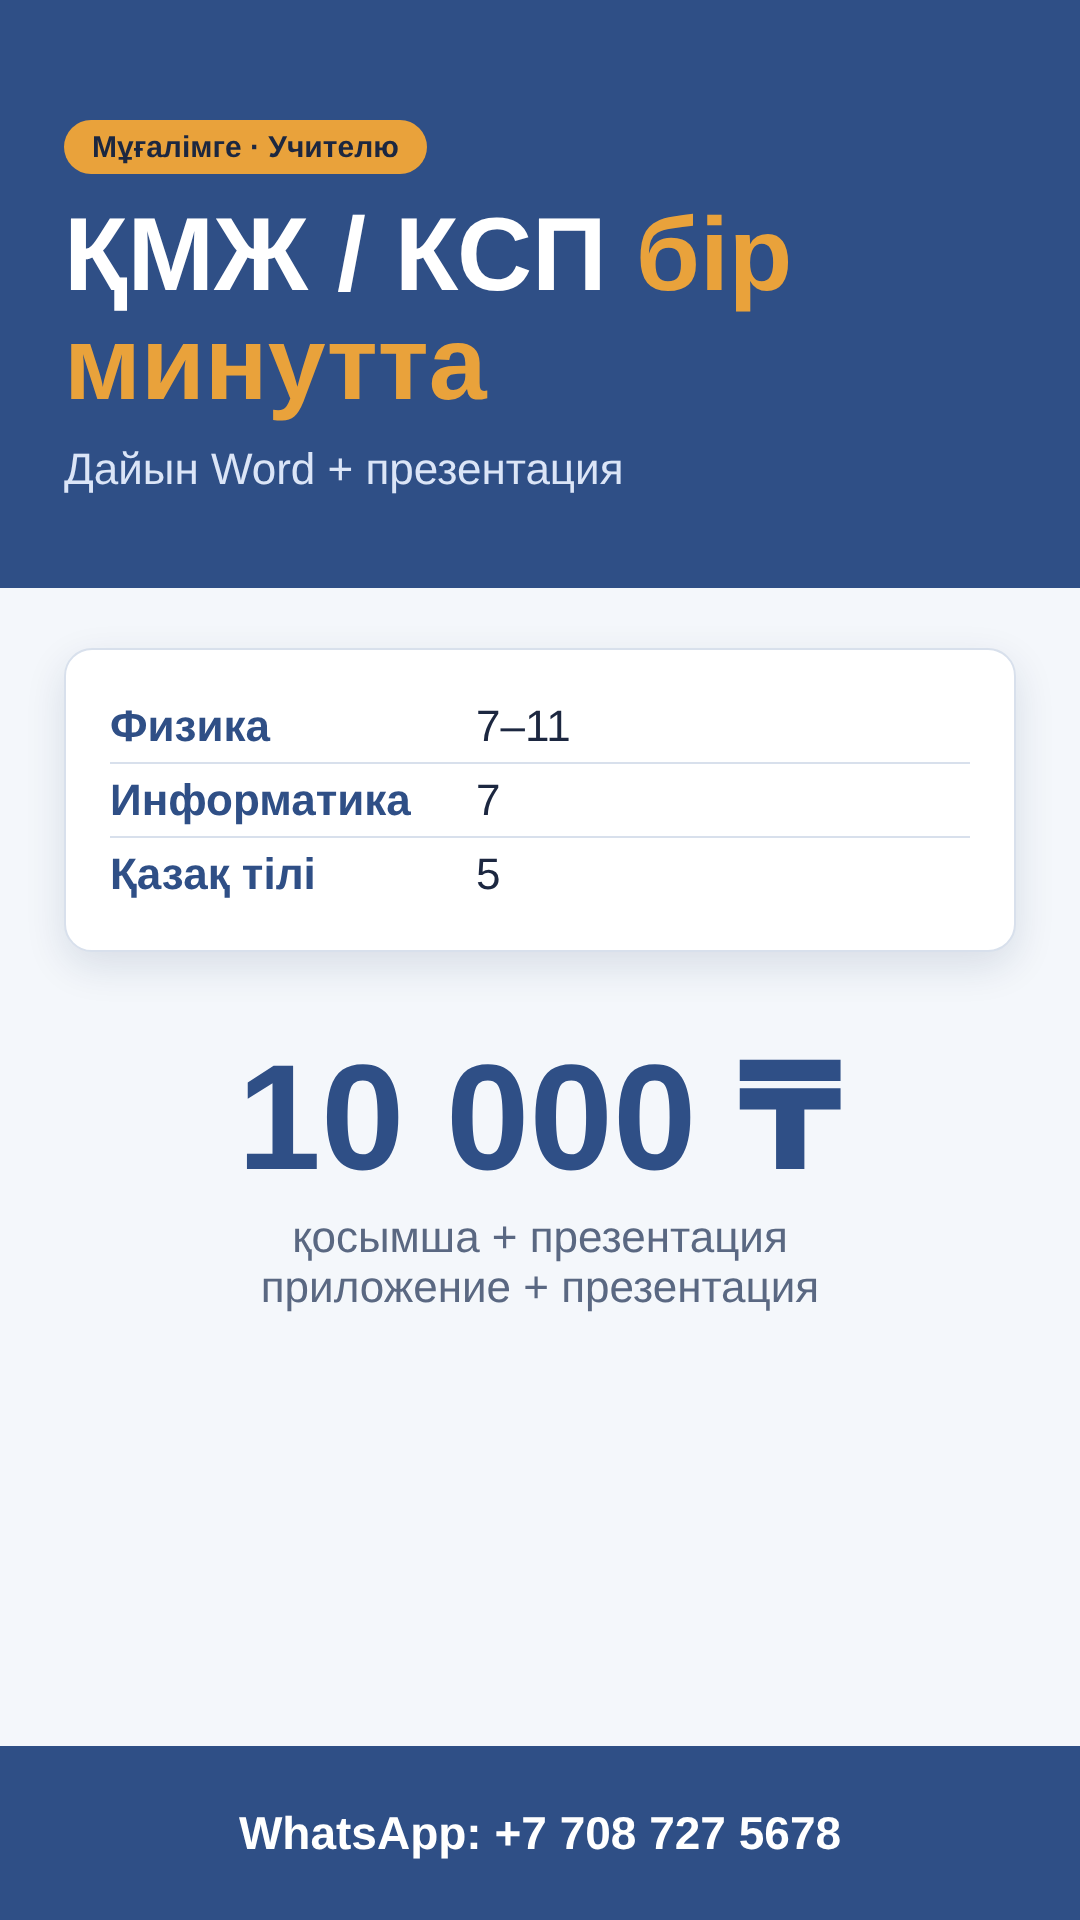
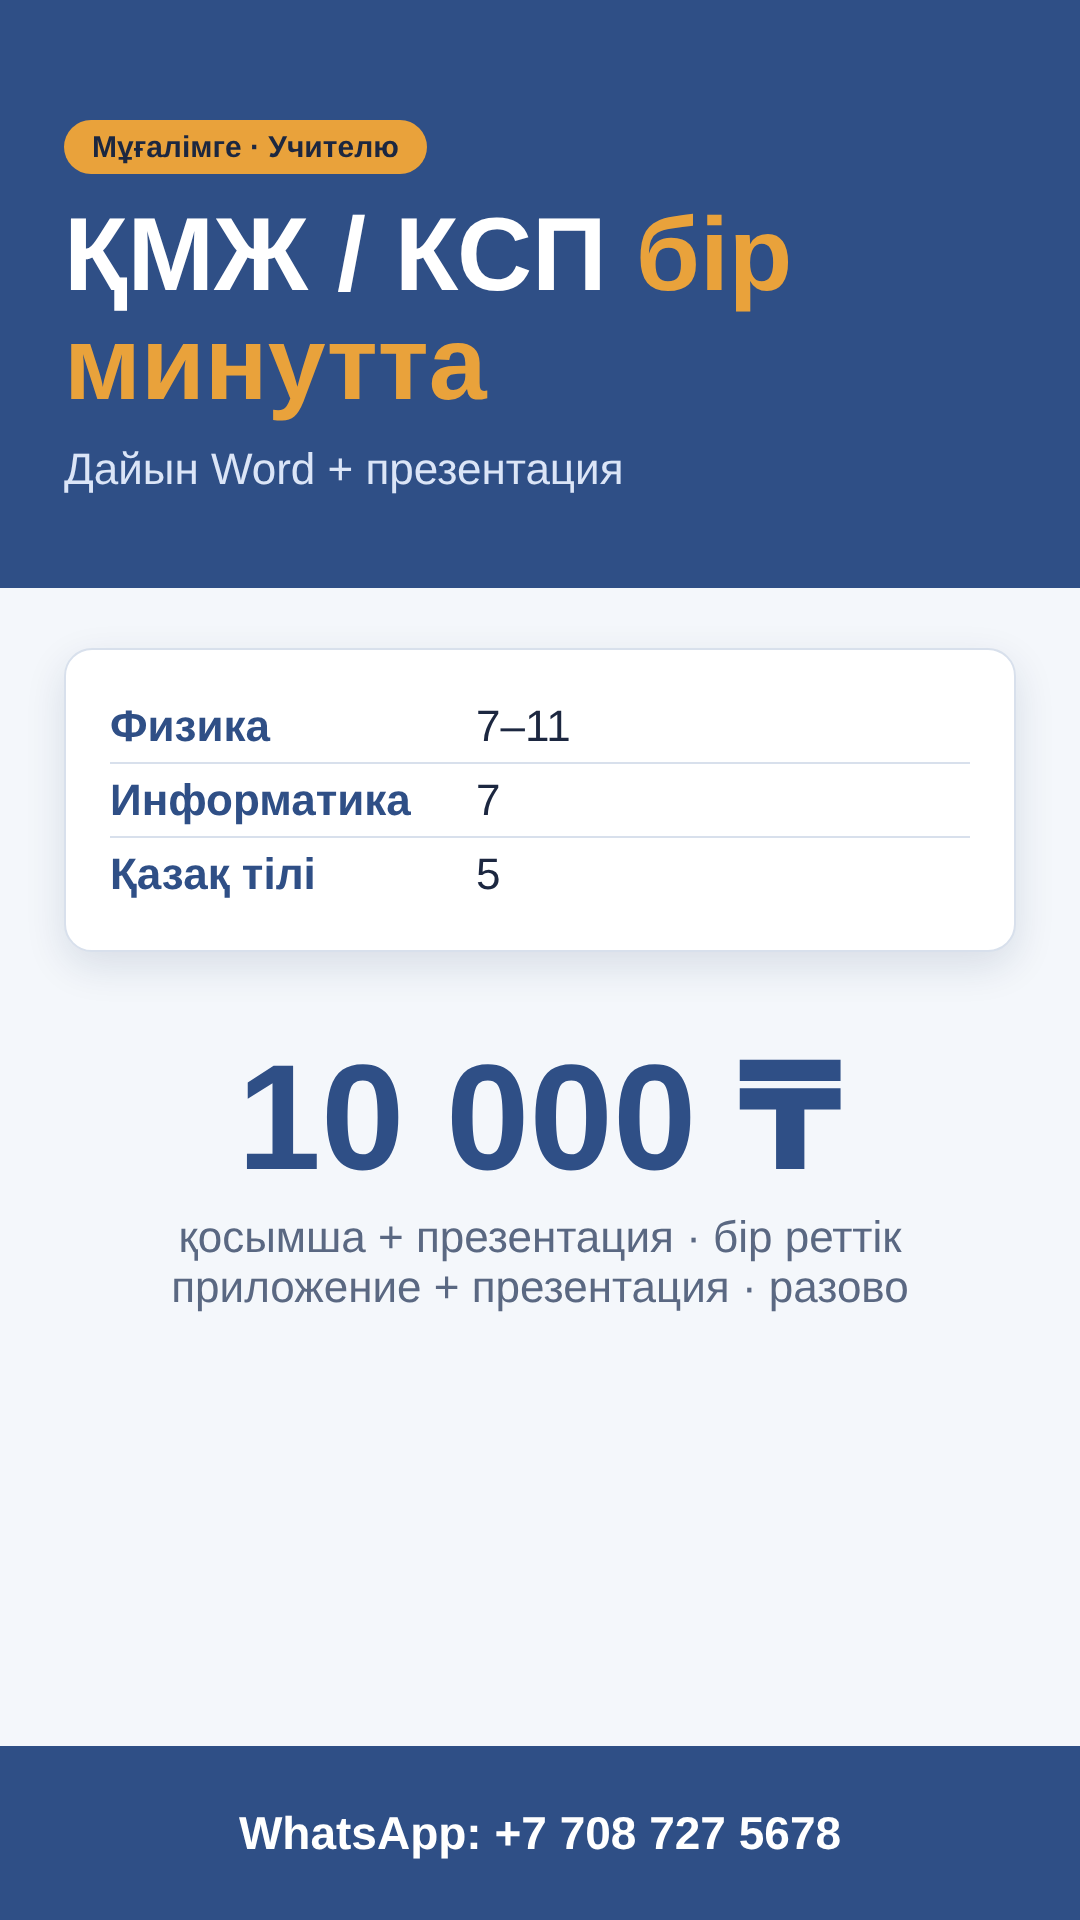
promo: бағалар мен шарттар (10 000 ₸ бір реттік, презентация 3 000 ₸, жинақ 5 000 ₸)
Claude-Session: https://claude.ai/code/session_01UKogQRtugYhHoysWCHeRKS

Changed region(s): [[0.1528, 0.625, 0.825, 0.6875]]

diff --git a/promo/index.html b/promo/index.html
@@ -143,11 +143,11 @@ footer{padding:20px 0 90px;color:var(--muted);font-size:14px;border-top:1px soli
     <section aria-labelledby="h-price">
       <h2 id="h-price" data-kk="Бағасы" data-ru="Стоимость"></h2>
       <div class="grid g3">
-        <div class="card price"><h3 data-kk="ҚМЖ қосымшасы + презентация" data-ru="Приложение КСП + презентация"></h3><div class="p" data-price="app"></div><ul class="tick"><li data-kk="Сіздің атыңызбен жеке қосымша" data-ru="Личное приложение на ваше имя"></li><li data-kk="Таңдаған пәніңіз бен сыныптарыңыз" data-ru="Ваш предмет и классы"></li><li data-kk="Презентация қоса беріледі" data-ru="Презентация в комплекте"></li><li data-kk="Жаңарту және қолдау" data-ru="Обновления и поддержка"></li></ul></div>
+        <div class="card price"><h3 data-kk="ҚМЖ қосымшасы + презентация" data-ru="Приложение КСП + презентация"></h3><div class="p" data-price="app"></div><ul class="tick"><li data-kk="Бір реттік төлем, мерзімі шектелмейді" data-ru="Разовая оплата, без срока доступа"></li><li data-kk="Сіздің атыңызбен жеке қосымша" data-ru="Личное приложение на ваше имя"></li><li data-kk="Таңдаған пәніңіз бен сыныптарыңыз" data-ru="Ваш предмет и классы"></li><li data-kk="1 презентация қоса беріледі" data-ru="1 презентация в комплекте"></li><li data-kk="1 жыл бойы жаңарту және қолдау" data-ru="Обновления и поддержка 1 год"></li></ul></div>
         <div class="card price"><h3 data-kk="Жеке презентация" data-ru="Отдельная презентация"></h3><div class="p" data-price="ppt"></div><ul class="tick"><li data-kk=".pptx форматында" data-ru="В формате .pptx"></li><li data-kk="Тақырып, сынып, тіл бойынша" data-ru="По теме, классу и языку"></li><li data-kk="1–2 күнде дайын" data-ru="Готово за 1–2 дня"></li></ul></div>
         <div class="card price"><h3 data-kk="Тапсырмалар жинағы" data-ru="Сборник заданий"></h3><div class="p" data-price="book"></div><ul class="tick"><li data-kk="Жауаптары мен дескрипторлары" data-ru="С ответами и дескрипторами"></li><li data-kk="Word / PDF" data-ru="Word / PDF"></li><li data-kk="Пән мен сыныпқа арнап" data-ru="Под ваш предмет и класс"></li></ul></div>
       </div>
-      <p class="note" data-kk="Төлем: Kaspi." data-ru="Оплата: Kaspi."></p>
+      <p class="note" data-kk="Төлем: Kaspi. Бағалар теңгемен, бір реттік төлем." data-ru="Оплата: Kaspi. Цены в тенге, оплата разовая."></p>
     </section>
 
     <section aria-labelledby="h-faq">
@@ -155,7 +155,7 @@ footer{padding:20px 0 90px;color:var(--muted);font-size:14px;border-top:1px soli
       <details><summary data-kk="Бұл ресми құжат па?" data-ru="Это официальный документ?"></summary><p data-kk="Жоқ. Бұл мұғалімге көмекші құрал: нысан № 130 бұйрықтың 4-қосымшасына сай жасалған. Соңғы тексеруді және мектептің талабын мұғалімнің өзі жасайды." data-ru="Нет. Это инструмент-помощник: форма сделана по приложению 4 к приказу № 130. Итоговую проверку и требования своей школы учитель оценивает сам."></p></details>
       <details><summary data-kk="Файлды өзгертуге бола ма?" data-ru="Можно ли редактировать файл?"></summary><p data-kk="Иә, бұл кәдімгі Word файлы – өз сабағыңызға сай өзгертесіз." data-ru="Да, это обычный Word-файл – подправьте под свой урок."></p></details>
       <details><summary data-kk="Қай сыныптар мен пәндер бар?" data-ru="Какие классы и предметы есть?"></summary><p data-kk="Физика 7–11, информатика 7, қазақ тілі мен әдебиеті 5. Басқа пән мен сыныпты тапсырыс бойынша қосамыз." data-ru="Физика 7–11, информатика 7, казахский язык и литература 5. Другие предметы и классы добавим под заказ."></p></details>
-      <details><summary data-kk="Қалай төлеймін?" data-ru="Как оплатить?"></summary><p data-kk="Kaspi арқылы. Төлем туралы нақты мәліметті WhatsApp-та жазамыз." data-ru="Через Kaspi. Точные реквизиты пришлём в WhatsApp."></p></details>
+      <details><summary data-kk="Қалай төлеймін?" data-ru="Как оплатить?"></summary><p data-kk="Kaspi арқылы, бір рет. Төлем туралы нақты мәліметті WhatsApp-та жазамыз." data-ru="Через Kaspi, один раз. Точные реквизиты пришлём в WhatsApp."></p></details>
     </section>
 
     <div class="cta" id="contact">
@@ -179,9 +179,9 @@ var CONFIG = {
   waNumber: '77087275678',       // WhatsApp для заказов (без + и пробелов). Если очистить – кнопка снова ведёт к блоку контактов
   waText: { kk: 'Сәлем! ҚМЖ / презентация туралы білгім келеді.', ru: 'Здравствуйте! Хочу узнать про КСП / презентации.' },
   prices: {                     // пока цены не заданы – показывается «Бағасын сұраңыз»
-    app:  { kk: '10 000 ₸', ru: '10 000 ₸' },
-    ppt:  { kk: '', ru: '' },
-    book: { kk: '', ru: '' }
+    app:  { kk: '10 000 ₸', ru: '10 000 ₸' },   // бір реттік / разово
+    ppt:  { kk: '3 000 ₸', ru: '3 000 ₸' },
+    book: { kk: '5 000 ₸', ru: '5 000 ₸' }
   }
 };
 (function(){

diff --git a/promo/ads/creatives.html b/promo/ads/creatives.html
@@ -33,7 +33,7 @@ h1 em{font-style:normal;color:#e9a23b}
     <div class="row"><b>2 мин</b>Ұйымдастыру кезеңі</div><div class="row"><b>5 мин</b>«Ойлан!»</div><div class="row"><b>10 мин</b>Жаңа білім</div>
     <div class="row"><b>10 мин</b>«Зертте!», «Талда!»</div></div></div>
   <div class="cta">WhatsApp: +7 708 727 5678<small>kmj-promo.vercel.app</small></div>
-  <div class="price"><b>10 000 ₸</b><span>ҚМЖ қосымшасы + презентация</span></div>
+  <div class="price"><b>10 000 ₸</b><span>ҚМЖ қосымшасы + презентация · бір реттік</span></div>
 </div>
 
 <!-- 2: рус, квадрат -->
@@ -42,7 +42,7 @@ h1 em{font-style:normal;color:#e9a23b}
   <div class="body"><div class="steps">
     <div><b>1</b>Выберите класс и четверть</div><div><b>2</b>Выберите тему из списка</div><div><b>3</b>Скачайте Word и отправьте в WhatsApp</div></div></div>
   <div class="cta">WhatsApp: +7 708 727 5678<small>kmj-promo.vercel.app</small></div>
-  <div class="price"><b>10 000 ₸</b><span>приложение КСП + презентация</span></div>
+  <div class="price"><b>10 000 ₸</b><span>приложение КСП + презентация · разово</span></div>
 </div>
 
 <!-- 3: 45 минут -->
@@ -61,7 +61,7 @@ h1 em{font-style:normal;color:#e9a23b}
     <div class="row" style="font-size:44px"><b style="width:340px">Физика</b>7–11</div>
     <div class="row" style="font-size:44px"><b style="width:340px">Информатика</b>7</div>
     <div class="row" style="font-size:44px"><b style="width:340px">Қазақ тілі</b>5</div></div>
-    <div style="text-align:center;margin-top:90px"><div class="big">10 000 ₸</div><p style="font-size:44px;color:#5a6882;margin-top:20px">қосымша + презентация<br>приложение + презентация</p></div></div>
+    <div style="text-align:center;margin-top:90px"><div class="big">10 000 ₸</div><p style="font-size:44px;color:#5a6882;margin-top:20px">қосымша + презентация · бір реттік<br>приложение + презентация · разово</p></div></div>
   <div class="foot" style="font-size:46px;padding:60px">WhatsApp: +7 708 727 5678</div>
 </div>
 </body></html>

diff --git a/promo/ads.md b/promo/ads.md
@@ -1,5 +1,7 @@
 # Реклама для Facebook и Instagram (тексты, готовые к вставке)
 
+**Цены (мои предложения, можно менять):** пакет «приложение КСП + 1 презентация» – 10 000 ₸ разово, обновления 1 год; отдельная презентация – 3 000 ₸; сборник заданий – 5 000 ₸. Оплата через Kaspi.
+
 Не публиковалось. Вставь номер WhatsApp в `CONFIG.waNumber` в `promo/index.html` до запуска рекламы.
 
 ## Правила, чтобы Meta не отклонила рекламу
@@ -18,6 +20,7 @@
 ✅ тапсырмалар мен жауаптары қосымшада
 ✅ «Адал азамат» құндылықтары, дескрипторлар
 ✅ физика, информатика, қазақ тілі мен әдебиеті
+10 000 ₸ – бір реттік төлем (қосымша + 1 презентация).
 Үлгіні WhatsApp-та жібереміз 👇
 **Кнопка:** Хабар жіберу (WhatsApp)
 
@@ -29,12 +32,13 @@
 ✅ задания, ответы и дескрипторы – в приложениях
 ✅ физика, информатика, казахский язык и литература
 ✅ можно править в обычном Word
+10 000 ₸ разово (приложение + 1 презентация).
 Напишите предмет и класс – пришлём образец 👇
 **Кнопка:** Написать в WhatsApp
 
 ## Вариант 3. Презентации под заказ
 **Заголовок:** Презентация к уроку – за 1–2 дня
-**Текст:** Теория, примеры, задания. Любой предмет, на казахском или русском. Пришлите тему и класс – обсудим формат и срок.
+**Текст:** Теория, примеры, задания. Любой предмет, на казахском или русском. 3 000 ₸ за презентацию. Пришлите тему и класс – обсудим формат и срок.
 
 ## Stories / Reels (15 секунд, без текста про доход)
 1. Экран телефона: выбор «Физика · 8 класс».
